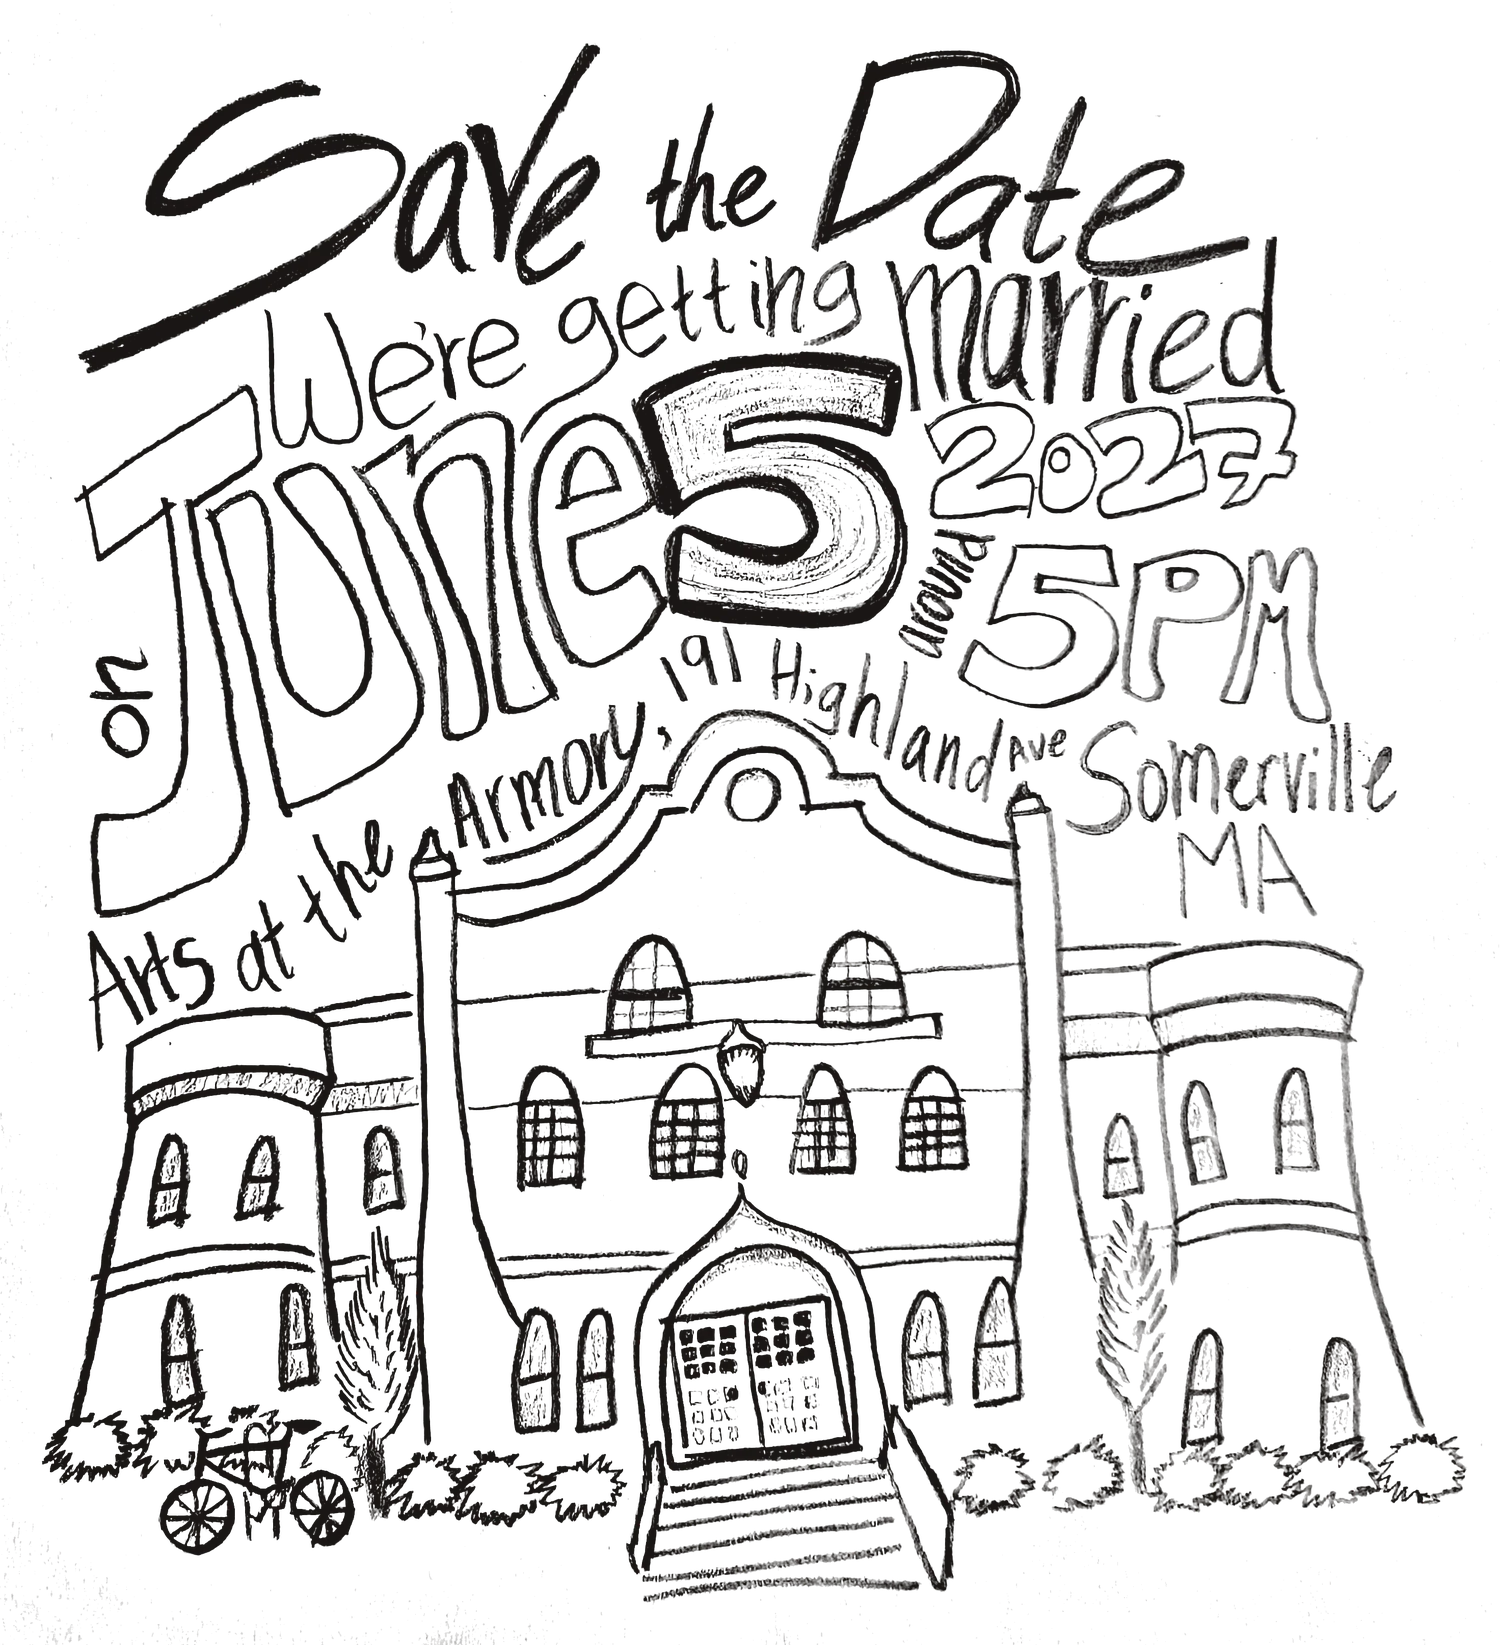
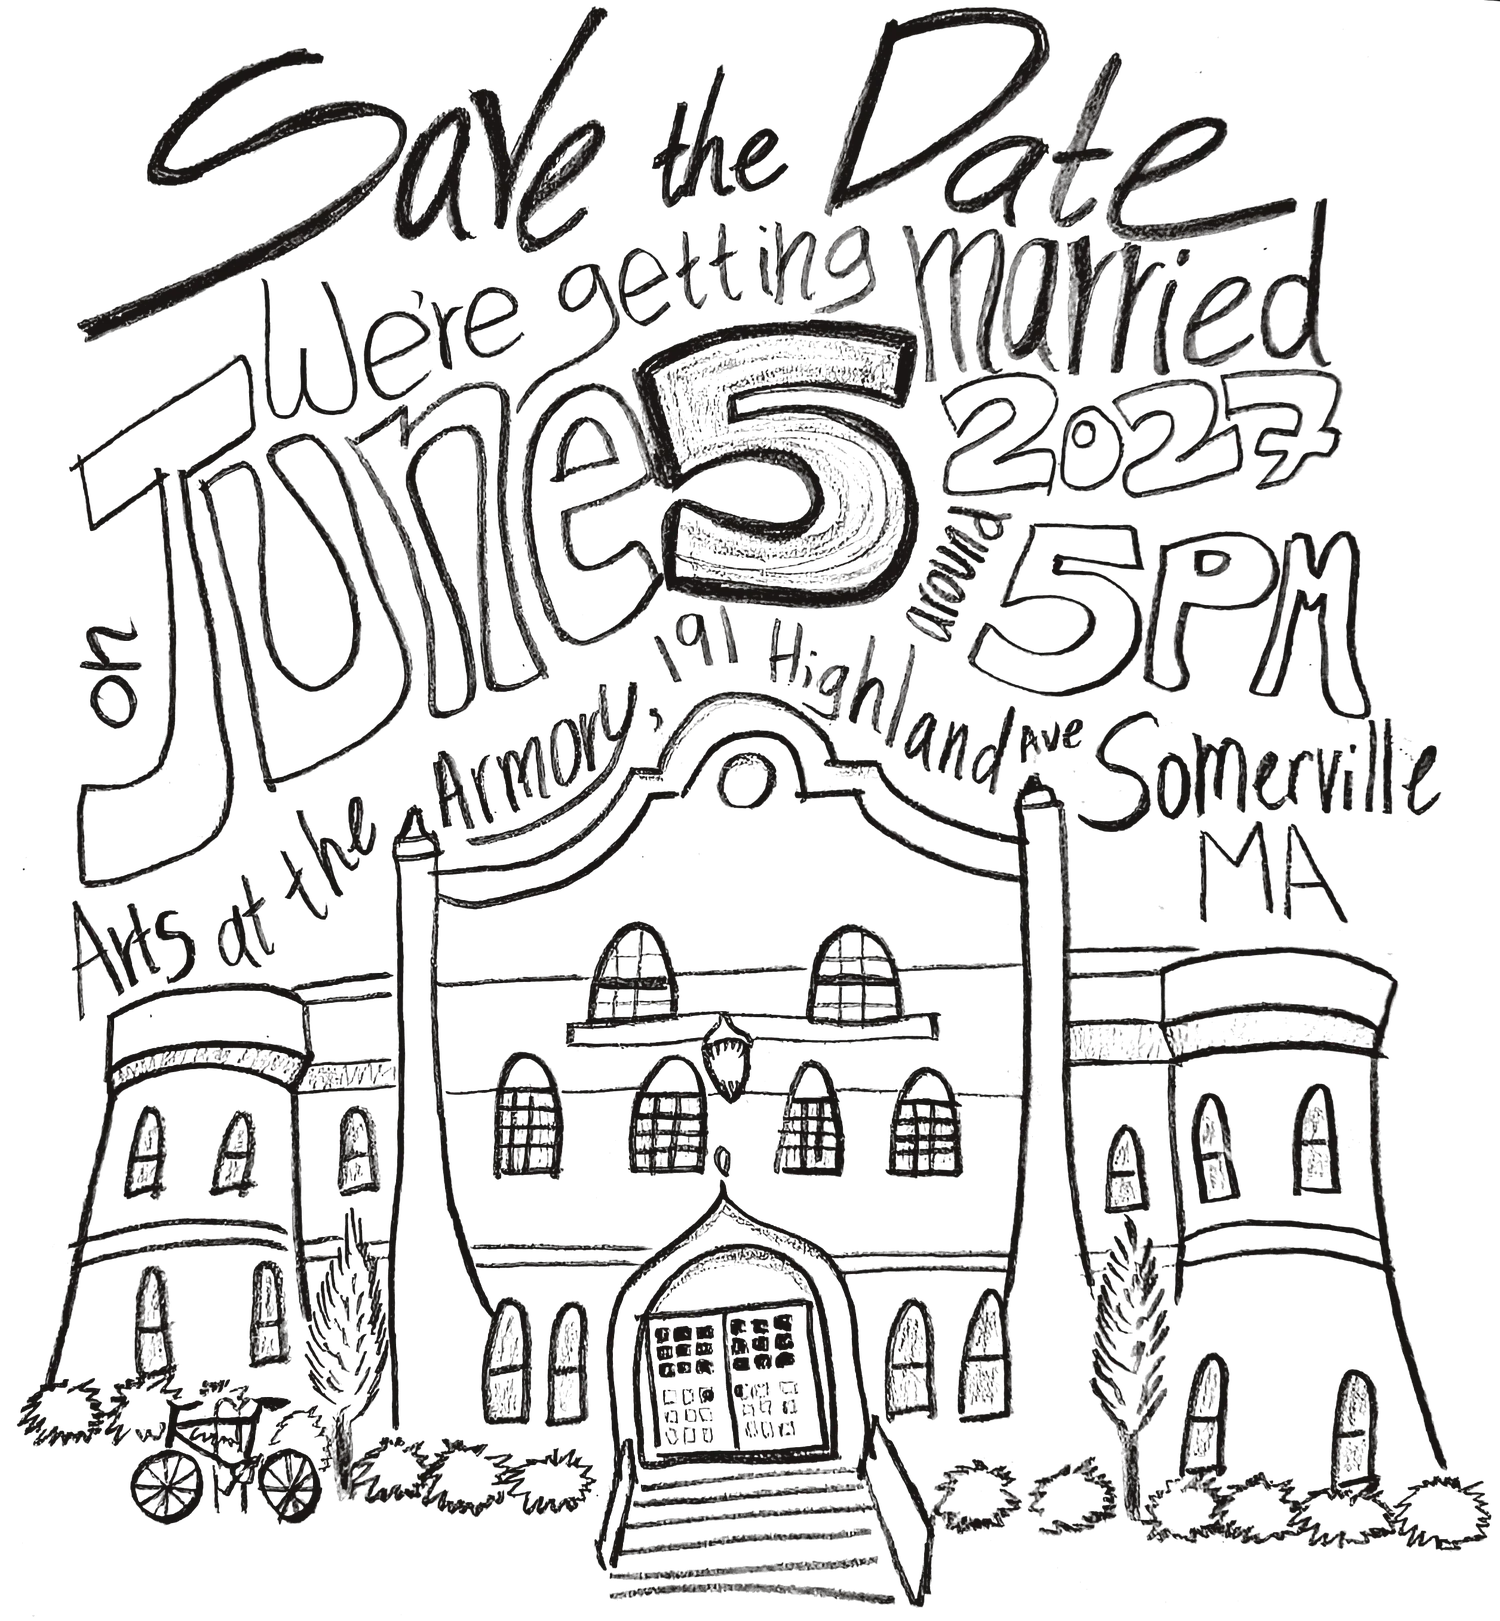
updated flyer scan

diff --git a/tools/process_flyer.py b/tools/process_flyer.py
@@ -1,10 +1,10 @@
 """Turn the phone photo of the pencil flyer into web assets.
 
-Deliberately conservative. The drawing is left at the angle it was
-photographed at - no deskewing, no perspective correction - because the tilt is
-part of how it reads as a real sheet of paper someone drew on. All this does is
-knock the table out from behind it, even out the desk lamp, crop to the
-drawing, and drop the paper so the graphite can sit on the page's own stock.
+Deliberately conservative. The drawing is left exactly as photographed - no
+deskewing, no perspective correction - because any wobble in it is part of how
+it reads as a real sheet of paper someone drew on. All this does is even out
+what is left of the lighting, crop to the drawing, and drop the paper so the
+graphite can sit on the page's own stock.
 
 No vectorising and no posterising: every smudge and paper fibre survives, which
 is the whole point.
@@ -26,10 +26,9 @@ import numpy as np
 from PIL import Image, ImageFilter
 
 HERE = os.path.dirname(__file__)
-SRC = os.path.join(HERE, "..", "PXL_20260817_030859046.jpg")
+SRC = os.path.join(HERE, "..", "PXL_20260819_125700004-EDIT.jpg")
 OUT = os.path.join(HERE, "..", "public", "images")
 
-EDGE_INSET = 26       # px pulled back from each paper edge, to lose its shadow
 BG_BLUR = 90          # radius used to model the uneven lighting
 PAPER_PCT = 80        # luminance percentile treated as bare paper
 PAPER_KNEE = 0.86     # anything lighter than this is called bare paper
@@ -39,66 +38,27 @@ MARGIN = 90           # px of paper left around the drawing
 WIDTH = 1500          # widest output
 
 
-def fit_edge(a: np.ndarray, thr: float, from_top: bool):
-    """Fit a straight line to one edge of the sheet.
-
-    The table is far darker than the paper, so walking in from the frame until
-    the brightness crosses `thr` finds the edge. Fitted robustly, because a few
-    columns land on a shadow or a fold."""
-    xs, ys = [], []
-    for x in range(0, a.shape[1], 12):
-        idx = np.nonzero(a[:, x] > thr)[0]
-        if idx.size:
-            xs.append(x)
-            ys.append(idx[0] if from_top else idx[-1])
-    xs = np.asarray(xs, float)
-    ys = np.asarray(ys, float)
-    for _ in range(3):                       # refit without the outliers
-        m, b = np.polyfit(xs, ys, 1)
-        keep = np.abs(ys - (m * xs + b)) < max(8.0, 2.5 * (ys - (m * xs + b)).std())
-        xs, ys = xs[keep], ys[keep]
-    return np.polyfit(xs, ys, 1)
-
-
 def main() -> None:
     src = Image.open(SRC).convert("RGB")
     g = np.asarray(src.convert("L"), dtype=np.float32)
     H, W = g.shape
     print(f"source {W}x{H}")
 
-    # ── 1. find the sheet, leave it where it lies ────────────────────────
-    dark = np.percentile(g[:200, :], 50)
-    light = np.percentile(g[H // 2 : H // 2 + 400, :], 50)
-    thr = (dark + light) / 2
-    mt, bt = fit_edge(g, thr, from_top=True)
-    mb, bb = fit_edge(g, thr, from_top=False)
-    print(f"top edge    y = {mt:.5f}x + {bt:.0f}")
-    print(f"bottom edge y = {mb:.5f}x + {bb:.0f}")
-
-    xx = np.arange(W)[None, :]
-    yy = np.arange(H)[:, None]
-    valid = (yy > (mt * xx + bt) + EDGE_INSET) & (yy < (mb * xx + bb) - EDGE_INSET)
-    print(f"sheet is {valid.mean():.0%} of the frame")
-
-    # ── 2. even out the lamp gradient ────────────────────────────────────
+    # ── 1. even out what is left of the lighting ─────────────────────────
     # Model the illumination as a heavily blurred copy of the page and divide
-    # it out. Cheap flat-field correction: kills the shadow across the corner
-    # without touching the fine graphite texture. Off-sheet pixels are filled
-    # with the page median first so the table cannot drag the model down.
-    fill = np.where(valid, g, np.median(g[valid]))
+    # it out. Cheap flat-field correction: evens up the last of the falloff
+    # without touching the fine graphite texture.
     bg = np.asarray(
-        Image.fromarray(fill.astype(np.uint8)).filter(ImageFilter.GaussianBlur(BG_BLUR)),
+        Image.fromarray(g.astype(np.uint8)).filter(ImageFilter.GaussianBlur(BG_BLUR)),
         dtype=np.float32,
     )
-    flat = fill / np.maximum(bg, 1.0)        # ~1.0 on bare paper, <1 on the ink
-    norm = np.clip(flat / np.percentile(flat[valid], PAPER_PCT), 0.0, 1.4)
-    norm[~valid] = 1.0                       # off-sheet is "paper", i.e. nothing
+    flat = g / np.maximum(bg, 1.0)           # ~1.0 on bare paper, <1 on the ink
+    norm = np.clip(flat / np.percentile(flat, PAPER_PCT), 0.0, 1.4)
 
-    # ── 3. crop to the drawing ───────────────────────────────────────────
-    # Taking the outermost inked line would catch the shadow along the sheet's
-    # own edge, so group the inked lines into runs and keep the longest: the
-    # drawing is one big block, an edge is a thin stripe beyond blank paper.
-    inked = (norm < 0.60) & valid
+    # ── 2. crop to the drawing ───────────────────────────────────────────
+    # Group the inked lines into runs and keep the longest, so a stray mark or
+    # a scanner artefact out at the edge cannot stretch the box.
+    inked = norm < 0.60
 
     def span(counts, gap=120):
         hits = np.nonzero(counts > 20)[0]
@@ -118,7 +78,7 @@ def main() -> None:
     print(f"content box x {x0}..{x1}  y {y0}..{y1}")
     norm = norm[y0 : y1 + 1, x0 : x1 + 1]
 
-    # ── 4. ink on transparency ───────────────────────────────────────────
+    # ── 3. ink on transparency ───────────────────────────────────────────
     # Luminance becomes alpha, so a light pencil stroke stays a light pencil
     # stroke - it just sits on the page's paper instead of the photo's. The
     # knee clamps the shadow haze to nothing while leaving graphite alone.
